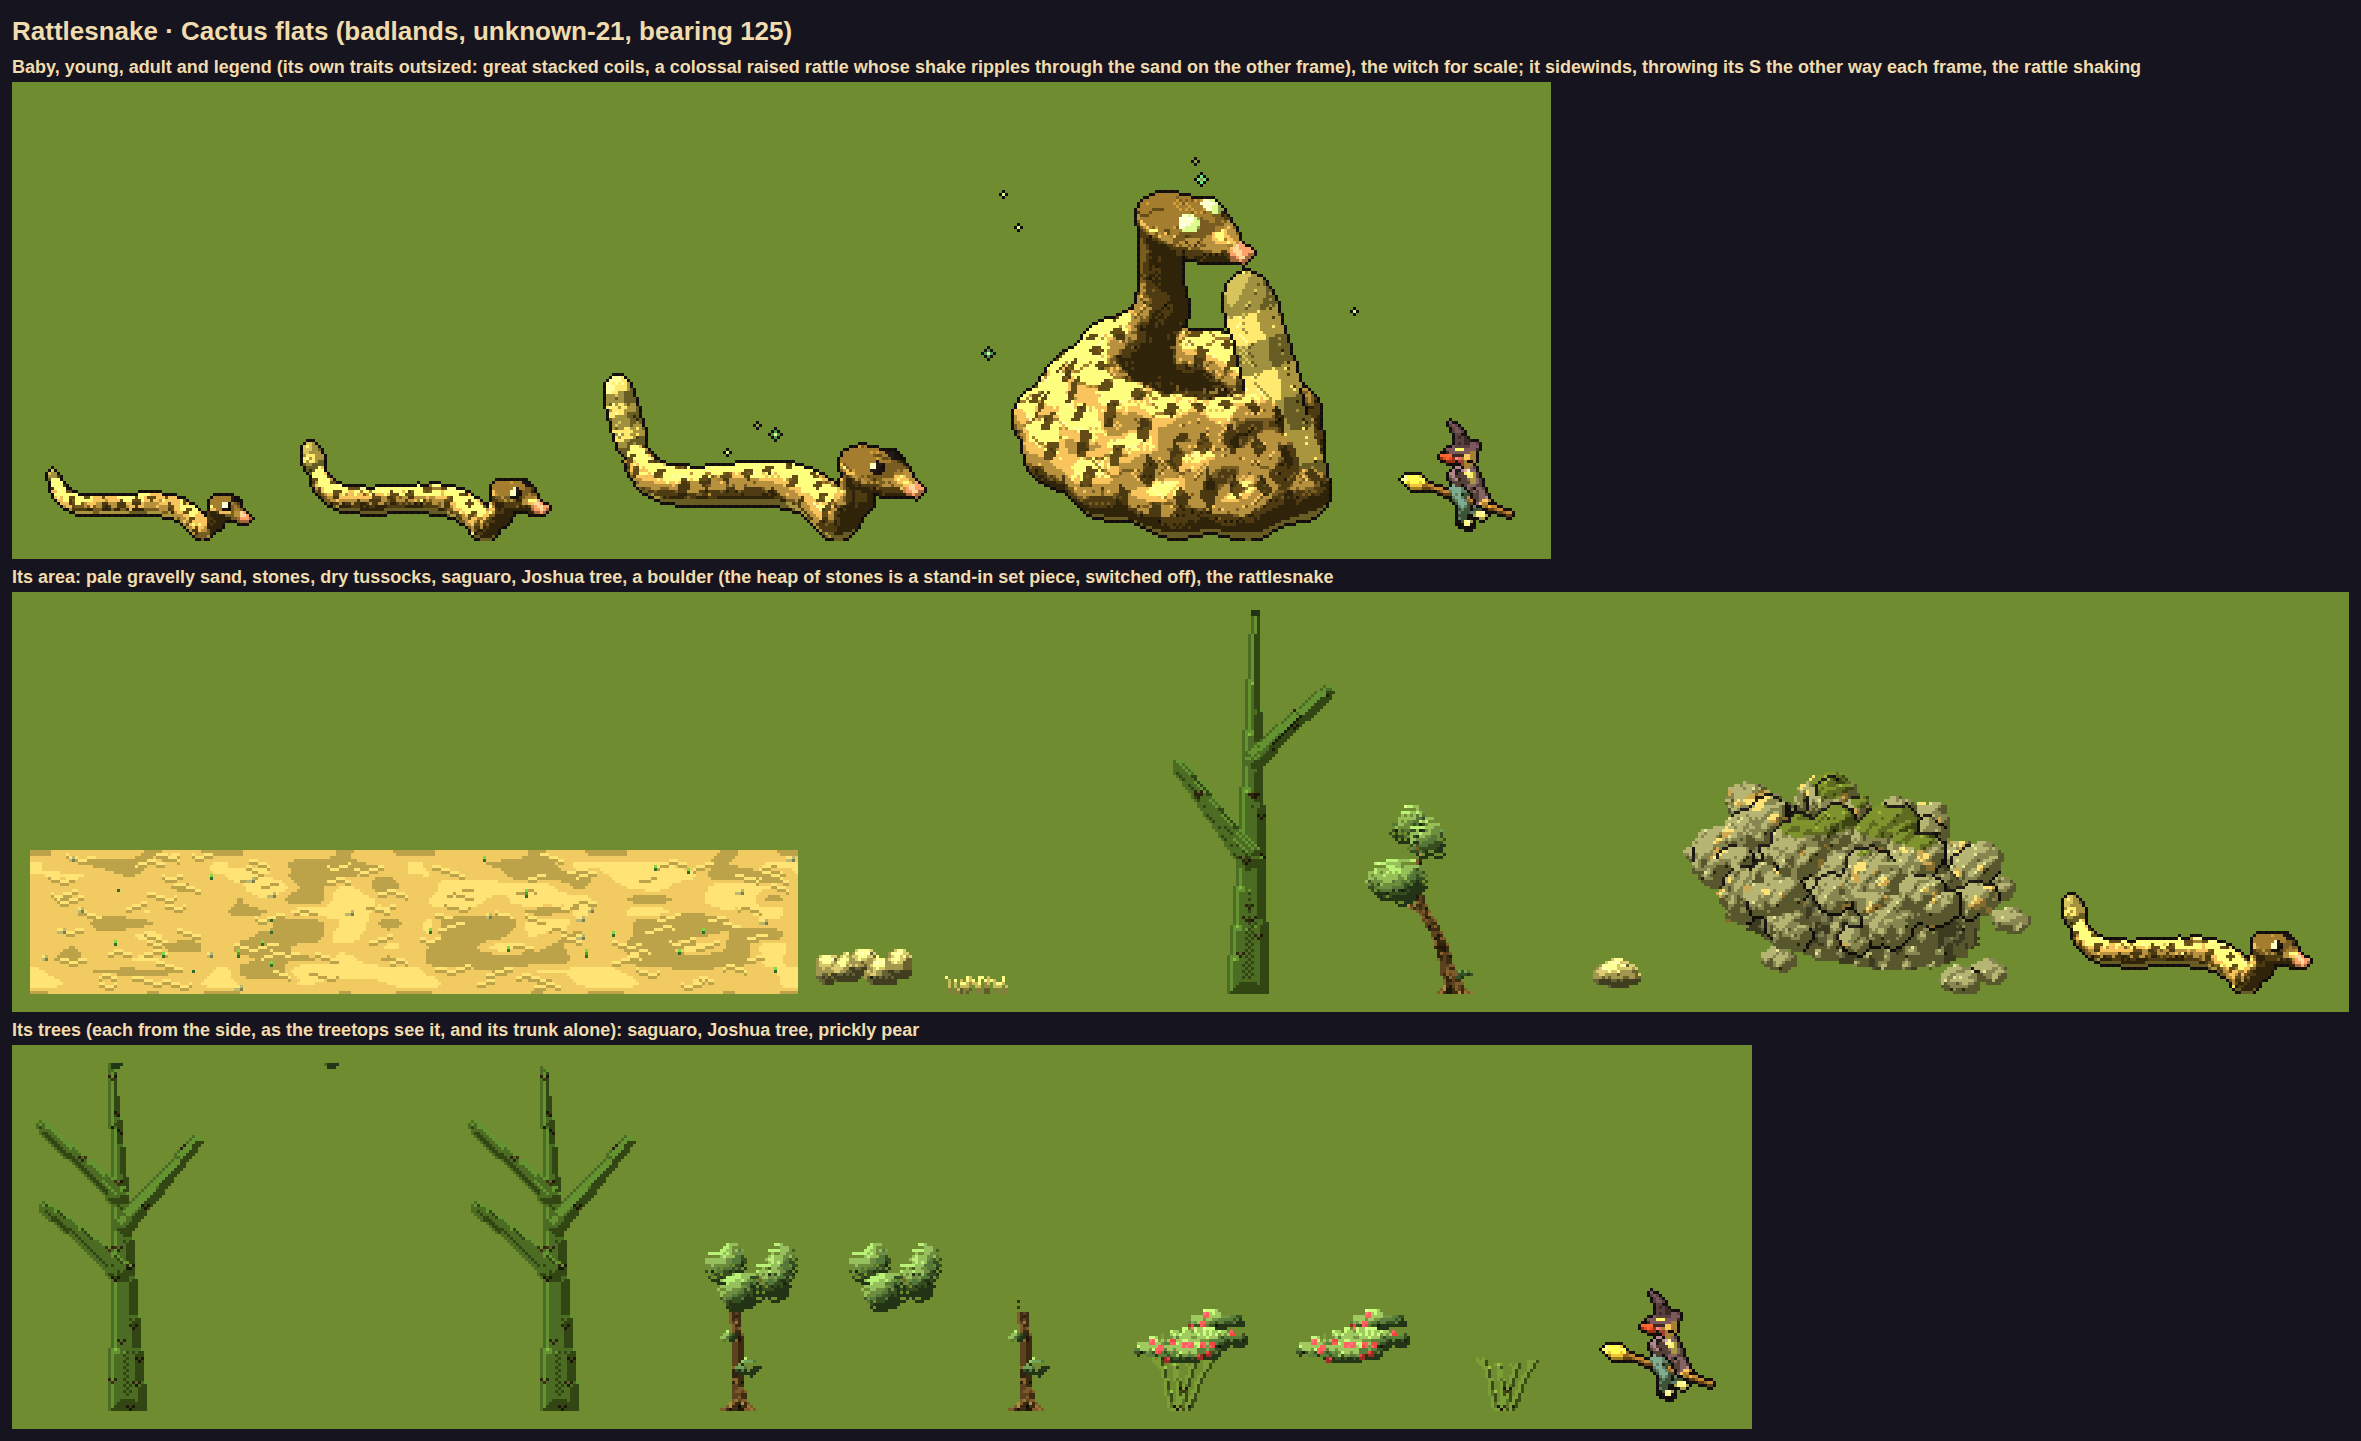
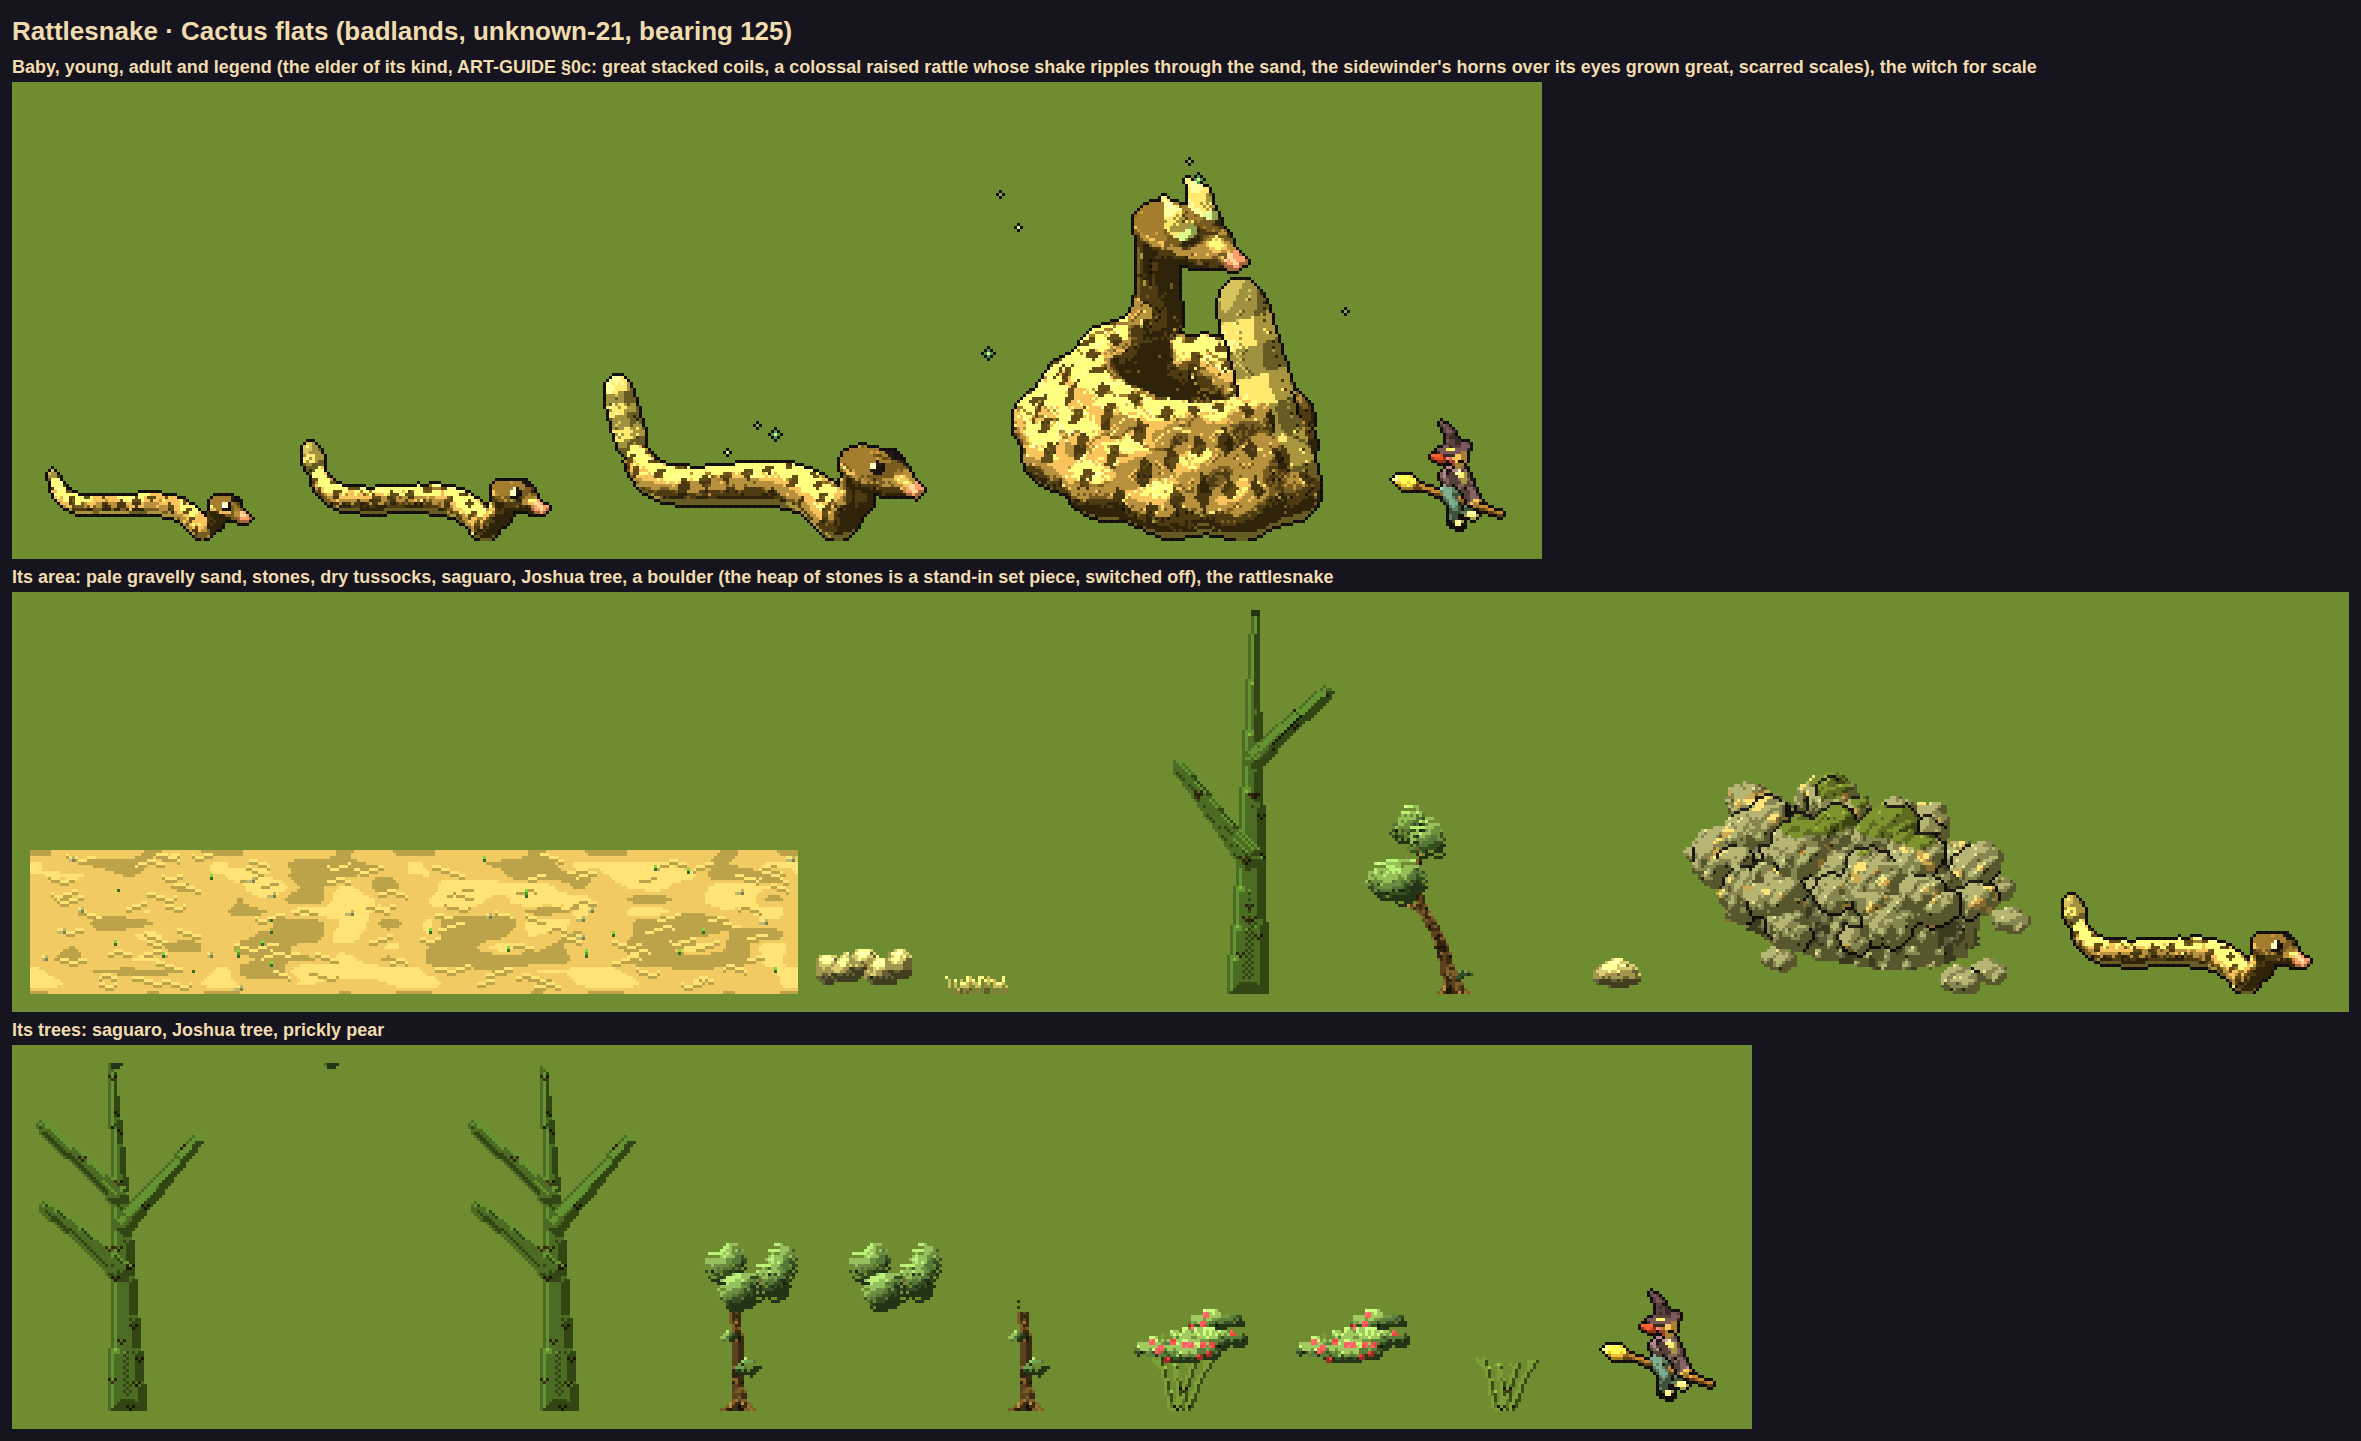
Badlands mocks: the legends as the elders of their kinds (ART-GUIDE §0c): the rattlesnake's great horns and scars, the scorpion's brood on its scarred back
Claude-Session: https://claude.ai/code/session_01FVGKHvaavDn5xGsWtRTBaz

Changed region(s): [[0.1237, 0.0312, 0.8967, 0.3747], [0.0309, 0.687, 0.371, 0.7183]]

diff --git a/art/creatures3d.js b/art/creatures3d.js
@@ -863,7 +863,8 @@ export function snake3d(S, level, frame, st, facing = "towards") {
 // back, a broad wedge of a head, its tail held up off the sand ending in the rattle (a stack of pale buttons, levelQ rattle: how many),
 // shaken between its two frames, the body throwing its S the other way. Its legend its own traits outsized (Ed: a legend "emphasises
 // the thing that makes that creature unusual"): great coils stacked under its raised head (levelQ coil) and a colossal rattle held
-// high, its shake rippling out through the sand in rings (feature ripple).
+// high, its shake rippling out through the sand in rings (feature ripple); the elder of its kind (Ed, docs/ART-GUIDE.md §0c): the
+// sidewinder's horns over its eyes grown great (feature horns), its scales scarred by epochs.
 export function rattlesnake3d(S, level, frame, st, facing = "towards") {
   const legend = level === 3, has = f => legend && S.legend.includes(f), m = new Model(), q = S.levelQ?.[level] || {};
   const ph = frame ? Math.PI : 0, th = q.thick ?? 1, coil = q.coil ?? 0, nR = q.rattle ?? 3, pts = [];
@@ -875,7 +876,8 @@ export function rattlesnake3d(S, level, frame, st, facing = "towards") {
   }
   const last = pts[pts.length - 1], neckTop = [last[0] + .12, last[1] + .26 * th + (coil ? .2 : 0), last[2] * .6];
   pts.push([last[0] + .1, last[1] + .12 * th, last[2] * .8, r0 * .9], [...neckTop, r0 * .85]);
-  m.chain(pts, M.BODY, { paint: p => p[1] < r0 * .5 ? M.BELLY : diamonds(p) });
+  const scarred = p => has("horns") && Math.abs(Math.sin(p[0] * 23 + p[2] * 31)) < .05 ? M.BELLY : undefined;
+  m.chain(pts, M.BODY, { paint: p => p[1] < r0 * .5 ? M.BELLY : scarred(p) ?? diamonds(p) });
   // the rattle: the tail's end lifted, a stack of buttons pointing up and back, shaken (tilted the other way) between frames
   const tail = pts[0], up = [-.45 + (frame ? .08 : -.08), 1, frame ? .25 : -.25], rk = has("rattleBig") ? 1.9 : 1;
   let b = v3.add(tail.slice(0, 3), [-.02, .02, 0]);
@@ -885,6 +887,7 @@ export function rattlesnake3d(S, level, frame, st, facing = "towards") {
   const hr = .085 * th, hc = v3.add(neckTop, [hr * 1.1, hr * .2, 0]);
   m.ell(hc, [hr * 1.5, hr * .65, hr * 1.1], M.BODY, { dir: [1, -.2, 0], group: 1, paint: p => p[1] > hc[1] + hr * .3 ? M.BODY2 : undefined });
   eyesOn(m, hc, [hr * 1.5, hr * .65, hr * 1.1], [[.45, .55, .7], [.45, .55, -.7]], hr * .2, legend ? M.MAGIC2 : M.EYE);
+  if (has("horns")) for (const sd of [-1, 1]) m.chain([[...v3.add(hc, [hr * .3, hr * .5, sd * hr * .6]), hr * .22], [...v3.add(hc, [hr * .1, hr * 1.2, sd * hr * .8]), hr * .12], [...v3.add(hc, [-hr * .4, hr * 1.7, sd * hr * .7]), hr * .02]], M.BELLY, { group: 1 }); // the elder's horns
   if (!frame) for (const s2 of [-1, 1]) m.seg(v3.add(hc, [hr * 1.4, -hr * .25, 0]), v3.add(hc, [hr * 2.3, -hr * .35, s2 * hr * .25]), .008, .006, M.SKIN, { group: 1 });
   m.anchors.feet.push({ c: v3.add(tail.slice(0, 3), [.04, -.01, 0]), r: .06, group: 3, tail: true }); // no feet: a tiny shoe on its tail
   m.anchors.neck = { c: v3.lerp(pts[pts.length - 2].slice(0, 3), neckTop, .5), r: r0 * 1.2, dir: [.2, 1, 0] };
@@ -895,7 +898,9 @@ export function rattlesnake3d(S, level, frame, st, facing = "towards") {
 // on eight legs, two great pincers reaching ahead, its tail of five segments arched up over its back and curling forward to the
 // bulb and sting. Its levels (levelQ: tail and pincer sizes): the baby pale and short-tailed, the adult dark with heavy pincers; the
 // legend its own traits outsized (Ed: a legend "emphasises the thing that makes that creature unusual"): a colossal curled tail and
-// sting (levelQ tail) and the scorpion's own trick, glowing blue-green under the moon along every plate's edge (feature fluoresce).
+// sting (levelQ tail) and the scorpion's own trick, glowing blue-green under the moon along every plate's edge (feature fluoresce);
+// the elder of its kind (Ed, docs/ART-GUIDE.md §0c): its armour scarred by epochs, its young riding on its back as scorpions carry
+// them (feature brood), a mother of all scorpions.
 export function scorpion3d(S, level, frame, st, facing = "towards") {
   const legend = level === 3, has = f => legend && S.legend.includes(f), m = new Model(), q = S.levelQ?.[level] || {};
   const tk = q.tail ?? 1, pk = q.pincer ?? 1, glowEdge = has("fluoresce"), y = .14;
@@ -904,7 +909,7 @@ export function scorpion3d(S, level, frame, st, facing = "towards") {
     m.chain([[...base, .022], [x + ph + (1.5 - i) * .05, y + .1, side * .3, .018], [x + ph * 1.5 + (1.5 - i) * .1, .01, side * .42, .01]], side > 0 ? M.BODY2 : M.BODY3, { group: side > 0 ? 7 : 2 });
   }
   // the body: a head shield and seven plates, each edged (the legend's edges glowing)
-  const edge = (c, r) => p => p[0] < c[0] - r[0] * .7 ? (glowEdge ? M.MAGIC : M.BODY3) : undefined; // (each plate's back edge: a dark seam, the legend's glowing)
+  const edge = (c, r) => p => p[0] < c[0] - r[0] * .7 ? (glowEdge ? M.MAGIC : M.BODY3) : glowEdge && Math.abs(Math.sin(p[0] * 47 + p[2] * 19)) < .05 ? M.BELLY : undefined; // (each plate's back edge: a dark seam, the legend's glowing; an elder's plates scarred)
   m.ell([.16, y + .03, 0], [.12, .05, .11], M.BODY, { group: 1, paint: edge([.16, y + .03, 0], [.12, .05, .11]) });
   for (let i = 0; i < 7; i++) { const c = [.04 - i * .065, y + .035, 0], r = [.045, .05, .12 - i * .004]; m.ell(c, r, i % 2 ? M.BODY2 : M.BODY, { group: 3, paint: edge(c, r) }); }
   // the tail: five segments arching up over the back and forward, then the bulb and the curved sting
@@ -923,6 +928,11 @@ export function scorpion3d(S, level, frame, st, facing = "towards") {
   }
   const hc = [.24, y + .06, 0];
   eyesOn(m, hc, [.06, .03, .06], [[.2, 1, .25], [.2, 1, -.25]], .016, legend ? M.MAGIC2 : M.EYE);
+  if (has("brood")) for (let i = 0; i < 7; i++) { // its young riding on its back, pale, each a tiny body and tail curled up
+    const c = [.12 - i * .075, y + .12, ((i % 3) - 1) * .07], k = .9 + (i % 2) * .2;
+    m.ell(c, [.04 * k, .02 * k, .03 * k], M.BELLY, { group: 30 + i });
+    m.seg(v3.add(c, [-.035 * k, .01, 0]), v3.add(c, [-.04 * k, .05 * k, 0]), .01 * k, .006 * k, M.BELLY, { group: 30 + i });
+  }
   m.anchors.neck = { c: [.2, y + .05, 0], r: .1, dir: [1, 0, 0] };
   return finish(m, S, level, st, .45, facing);
 }

diff --git a/art/genome/species.js b/art/genome/species.js
@@ -151,12 +151,12 @@ export const GENOMES = [
       ] },
     ] },
   // the badlands' rattlesnake (Ed, 2026-10-13, unknown-21): a sandy sidewinder with dark diamonds, a wedge head and a rattle that grows a
-  // button a level; its legend great stacked coils and a colossal raised rattle whose shake ripples out through the sand
-  { id: "rattlesnake", name: "Rattlesnake", template: "serpent", builder: "rattlesnake", palette: { hue: .08, sat: .38, val: .68 }, legend: ["rattleBig", "ripple"], texture: { kind: "scales", size: 2 },
+  // button a level; its legend the elder of its kind: great stacked coils, a colossal raised rattle whose shake ripples through the sand, great horns over its eyes, scarred
+  { id: "rattlesnake", name: "Rattlesnake", template: "serpent", builder: "rattlesnake", palette: { hue: .08, sat: .38, val: .68 }, legend: ["rattleBig", "ripple", "horns"], texture: { kind: "scales", size: 2 },
     levels: [{ body: { thick: .8, rattle: 1 } }, { body: { thick: 1, rattle: 3 } }, { body: { thick: 1.2, rattle: 6 } }, { body: { thick: 1.3, rattle: 7, coil: 1 } }] },
   // the badlands' scorpion (Ed, 2026-10-13, unknown-22): a red-brown canyon scorpion, pincers ahead and its sting arched over its back; its
-  // legend a colossal curled tail and the scorpion's own trick, glowing blue-green along its plates under the moon
-  { id: "scorpion", name: "Scorpion", template: "insectoid", builder: "scorpion", palette: { hue: .06, sat: .5, val: .48, magic: .47 }, legend: ["fluoresce"], texture: { kind: "plates", size: 2 },
+  // legend the elder of its kind: a colossal curled tail, its young riding on its scarred back, glowing blue-green along its plates under the moon
+  { id: "scorpion", name: "Scorpion", template: "insectoid", builder: "scorpion", palette: { hue: .06, sat: .5, val: .48, magic: .47 }, legend: ["fluoresce", "brood"], texture: { kind: "plates", size: 2 },
     levels: [{ body: { tail: .85, pincer: .85 } }, { body: { tail: 1, pincer: 1 } }, { body: { tail: 1.1, pincer: 1.3 } }, { body: { tail: 1.9, pincer: 1.4 } }] },
   { id: "glowworm", name: "Glow-worm", template: "serpent", builder: "glowworm", palette: { hue: .12, sat: .4, val: .35 }, legend: ["lantern"] , texture: { kind: "plates", size: 3 } },
   { id: "spider", name: "Spider", template: "insectoid", builder: "spider", palette: { hue: .07, sat: .45, val: .4 }, legend: ["eyesRing"] , texture: { kind: "bristles", size: 2 } },
